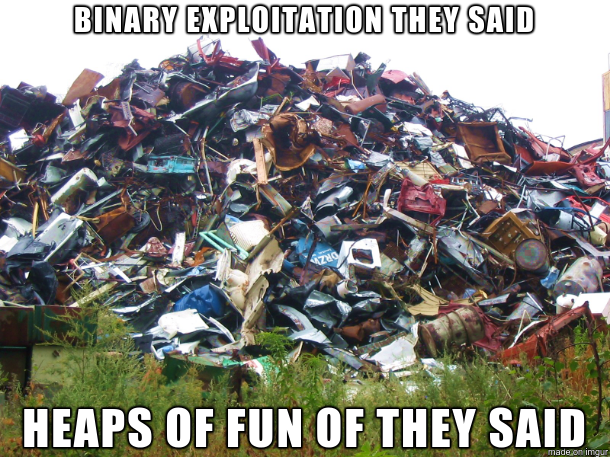
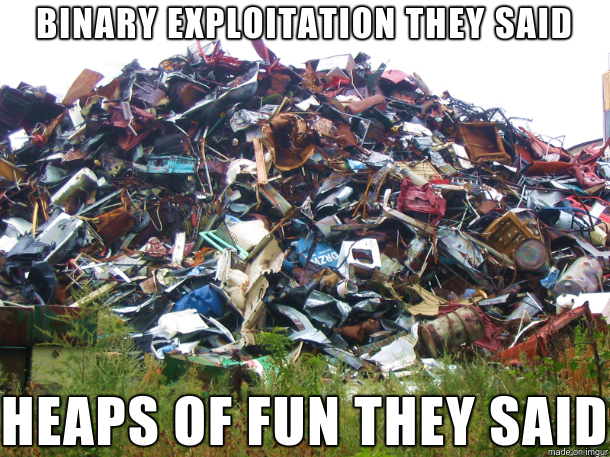
20-09: Fixed meme and clarified tools

Changed region(s): [[0.0, 0.8578, 0.9967, 1.0], [0.0311, 0.0, 0.9656, 0.0919]]

diff --git a/_posts/2020-09-16-heaps-of-fun.md b/_posts/2020-09-16-heaps-of-fun.md
@@ -19,8 +19,8 @@ description_en: >
   Three increasingly difficult challenges exploiting a custom-built heap.
   Learn about the different bug classes that can happen on the heap and witness their impact first-hand!
   We can already tell you're overflowing with excitement.
-tools_fr: ['assembleur', 'gdb']
-tools_en: ['assembly language', 'gdb']
+tools_fr: ['assembleur', 'ghidra', 'gdb', 'python']
+tools_en: ['assembly language', 'ghidra', 'gdb', 'python']
 presented_by_fr: Défi créé et présenté par Alexandre Beaulieu ([@alxbl_sec](https://twitter.com/alxbl_sec))
 presented_by_en: Challenge created and presented by Alexandre Beaulieu ([@alxbl_sec](https://twitter.com/alxbl_sec))
 featured_img: /images/20-09_heaps-of-fun.png
